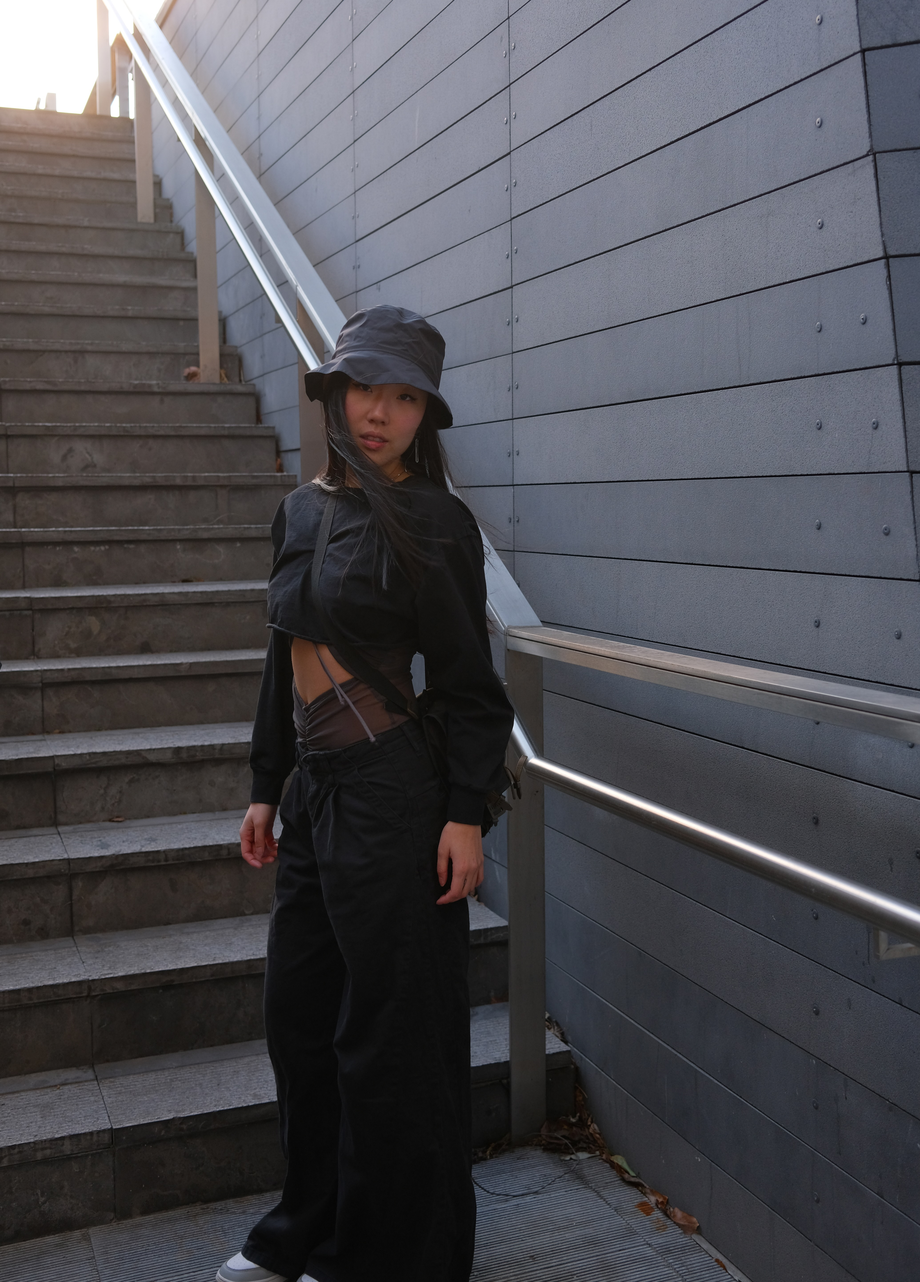
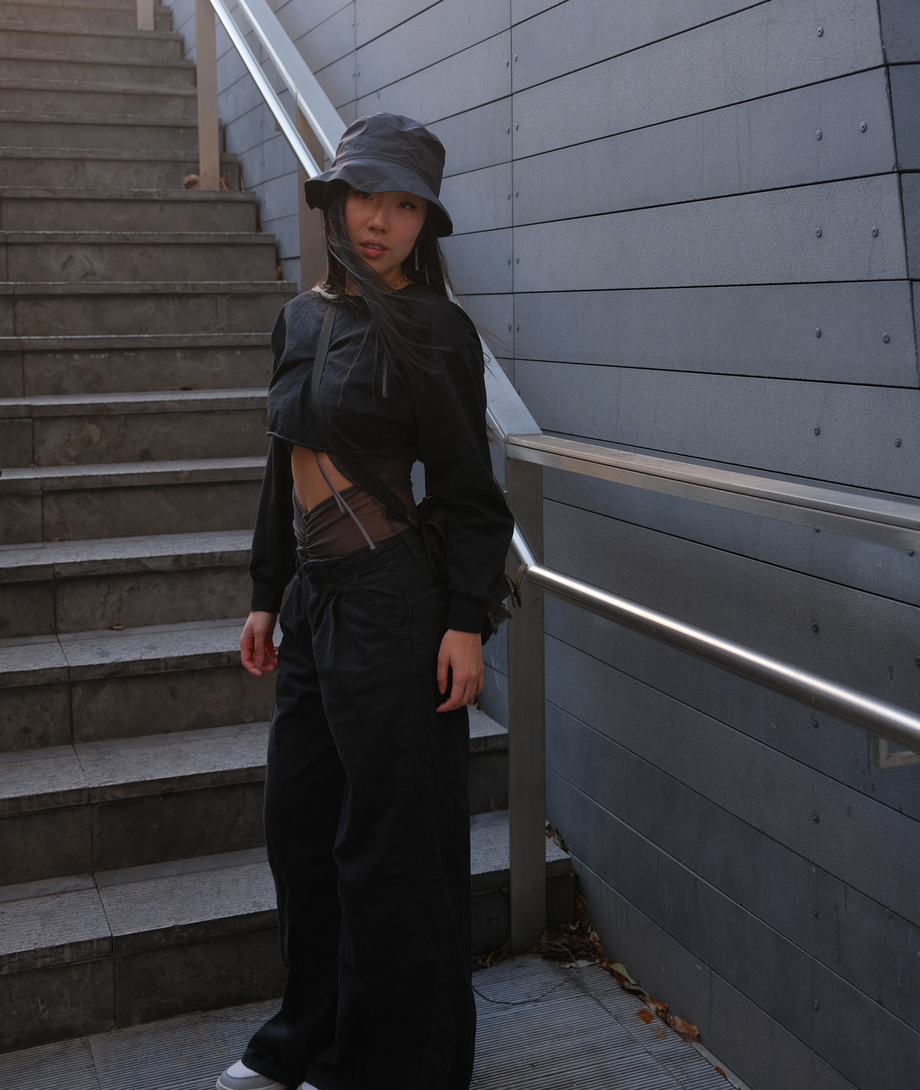
Increase scroll gap above text blocks, crop empty top strip from profile photo

diff --git a/style.css b/style.css
@@ -135,7 +135,7 @@ h3 {
   text-align: left;
   flex-wrap: wrap;
   min-height: 110vh;
-  margin-top: 70vh;
+  margin-top: 130vh;
 }
 
 .icon-row {
